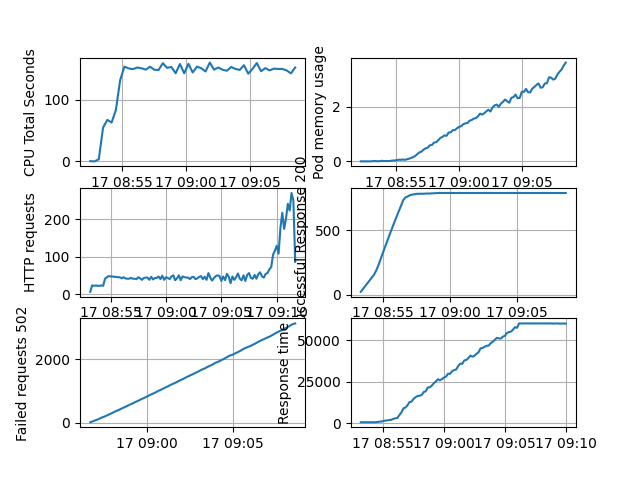
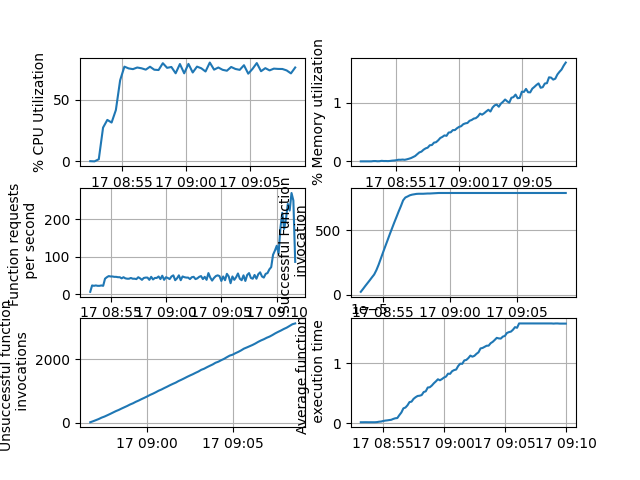
reverted meeting commit

diff --git a/analyser/query.py b/analyser/query.py
@@ -27,15 +27,17 @@ def query(client):
     res200DT, res200Count = execQuery(client['prometheus'], "SELECT max(value) FROM gateway_function_invocation_total WHERE time >= 1589705537000ms and time <= 1589706704000ms and code = '200' GROUP BY time(10s) fill(none);")
     res502DT, res502Count = execQuery(client['prometheus'], "SELECT max(value) FROM gateway_function_invocation_total WHERE time >= 1589705537000ms and time <= 1589706704000ms and code = '502' GROUP BY time(10s) fill(none);")
     resDT, resTime = execQuery(client['myk6db'], "SELECT max(value) FROM http_req_duration WHERE time >= 1589705537000ms and time <= 1589706704000ms and value > 0 GROUP BY time(10s) fill(none)")
-    memUsage_modified = [value/4000000000 for value in memUsage]
+    memUsage_modified = [value/(1024*1024*1024*8) for value in memUsage]
     # datalength = {'cpuDT': len(cpuDT), 'cpuSec': len(cpuSec), 'memDT': len(memDT), 'memUsage_modified': len(memUsage_modified),
     #                 'reqDT': len(reqDT), 'reqCount': len(reqCount), 'res200DT': len(res200DT), 'res200Count': len(res200Count), 'res502DT': len(res502DT), 
     #                    'res502Count': len(res502Count), 'resDT': len(resDT), 'resTime': len(resTime)}
     # print(datalength)
-    tableData = {'cpuDT': pd.Series(cpuDT), 'cpuSec': pd.Series(cpuSec), 'memDT': pd.Series(memDT), 'memUsage_modified': pd.Series(memUsage_modified),
-                    'reqDT': pd.Series(reqDT), 'reqCount': pd.Series(reqCount), 'res200DT': pd.Series(res200DT), 'res200Count': pd.Series(res200Count), 'res502DT': pd.Series(res502DT), 
-                       'res502Count': pd.Series(res502Count), 'resDT': pd.Series(resDT), 'resTime': pd.Series(resTime)}
+    resTime = [value/(1000*60) for value in resTime]
+    tableData = {'cpuDT': pd.Series(cpuDT), 'cpuSec': pd.Series(cpuSec), 'memUsage_modified': pd.Series(memUsage_modified),
+                     'reqCount': pd.Series(reqCount),  'res200Count': pd.Series(res200Count), 
+                       'res502Count': pd.Series(res502Count),  'resTime': pd.Series(resTime)}
     tab.toTable(tableData)
+    resTime = [value/(1000*60) for value in resTime]
     plot.multiplot(cpuDT_modified, cpuSec_modified, memDT, memUsage_modified, reqDT, reqCount, res200DT, res200Count, res502DT, res502Count, resDT, resTime)
 
 def main(host, port): 

diff --git a/analyser/plotter.py b/analyser/plotter.py
@@ -11,32 +11,32 @@ def multiplot(cpuDT, cpuSec, memDT, memUsage, reqDT, reqCount, res200DT, res200C
 
     plt.subplot(321)
     plt.plot(cpuDT, cpuSec)
-    plt.ylabel('CPU Total Seconds')
+    plt.ylabel('% CPU Utilization')
     plt.grid(True)
 
     plt.subplot(322)
     plt.plot(memDT, memUsage)
-    plt.ylabel('Pod memory usage')
+    plt.ylabel('% Memory utilization')
     plt.grid(True)
 
     plt.subplot(323)
     plt.plot(reqDT, reqCount)
-    plt.ylabel('HTTP requests')
+    plt.ylabel('Function requests \n per second')
     plt.grid(True)
 
     plt.subplot(324)
     plt.plot(res200DT, res200Count)
-    plt.ylabel('Successful Response 200')
+    plt.ylabel('Successful Function \n invocation')
     plt.grid(True)
 
     plt.subplot(325)
     plt.plot(res502DT, res502Count)
-    plt.ylabel('Failed requests 502')
+    plt.ylabel('Unsuccessful function \n invocations')
     plt.grid(True)
 
     plt.subplot(326)
     plt.plot(resDT, resTime)
-    plt.ylabel('Response time')
+    plt.ylabel('Average function \n execution time')
     plt.grid(True)
 
     plt.savefig('./analyser/graph.png')

diff --git a/analyser/dataformatter.py b/analyser/dataformatter.py
@@ -30,7 +30,7 @@ def newCalculateDifferenceBetweenDatapoints(containerSec):
             if every5thItem == 2:
                 divider = item - last5thTimeStamp
                 value = (containerSec[item] - last5thValue)
-                results[item] = (value / divider.total_seconds()) * 100
+                results[item] = (value / divider.total_seconds()) * 100/2
                 last5thValue = containerSec[item]
                 last5thTimeStamp = item
                 every5thItem = 0
